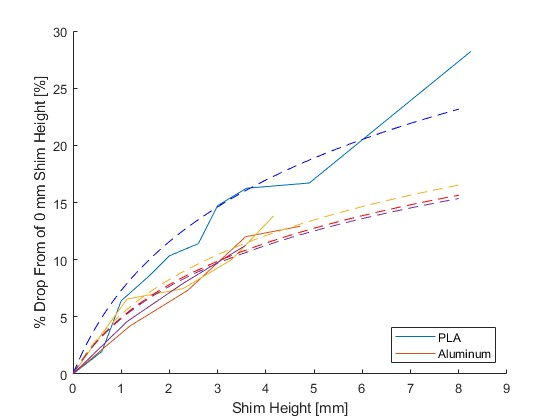
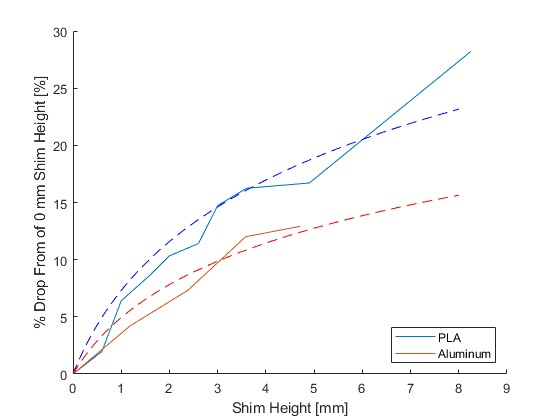
Updating an image and some code

diff --git a/Code/TranTempCurves.m b/Code/TranTempCurves.m
@@ -48,8 +48,8 @@ hold off
 % hold on
 % plot(heightsPLA, sstempsPLA);
 % plot(heightsAluminum, sstempsAluminum)
-% plot(heightsTough, sstempsTough)
-% plot(heightsSili, sstempsSili)
+% % plot(heightsTough, sstempsTough)
+% % plot(heightsSili, sstempsSili)
 
 
 % x0 = 9;
@@ -64,8 +64,8 @@ hold off
 % x = 0:0.01:round(max(heightsPLA));
 % plot(x,fitPLA*log(x+1), "--b")
 % plot(x,fitAluminum*log(x+1), "--r")
-% plot(x,fitTough*log(x+1), "--", "Color", "#EDB120")
-% plot(x,fitSili*log(x+1), "--", "Color", "#7E2F8E")
+% % plot(x,fitTough*log(x+1), "--", "Color", "#EDB120")
+% % plot(x,fitSili*log(x+1), "--", "Color", "#7E2F8E")
 % hold off 
 
 % % text(0.1, 19, "% Drop for PLA [%] = "+string(m1)+"*Shim Ht. [mm]")
